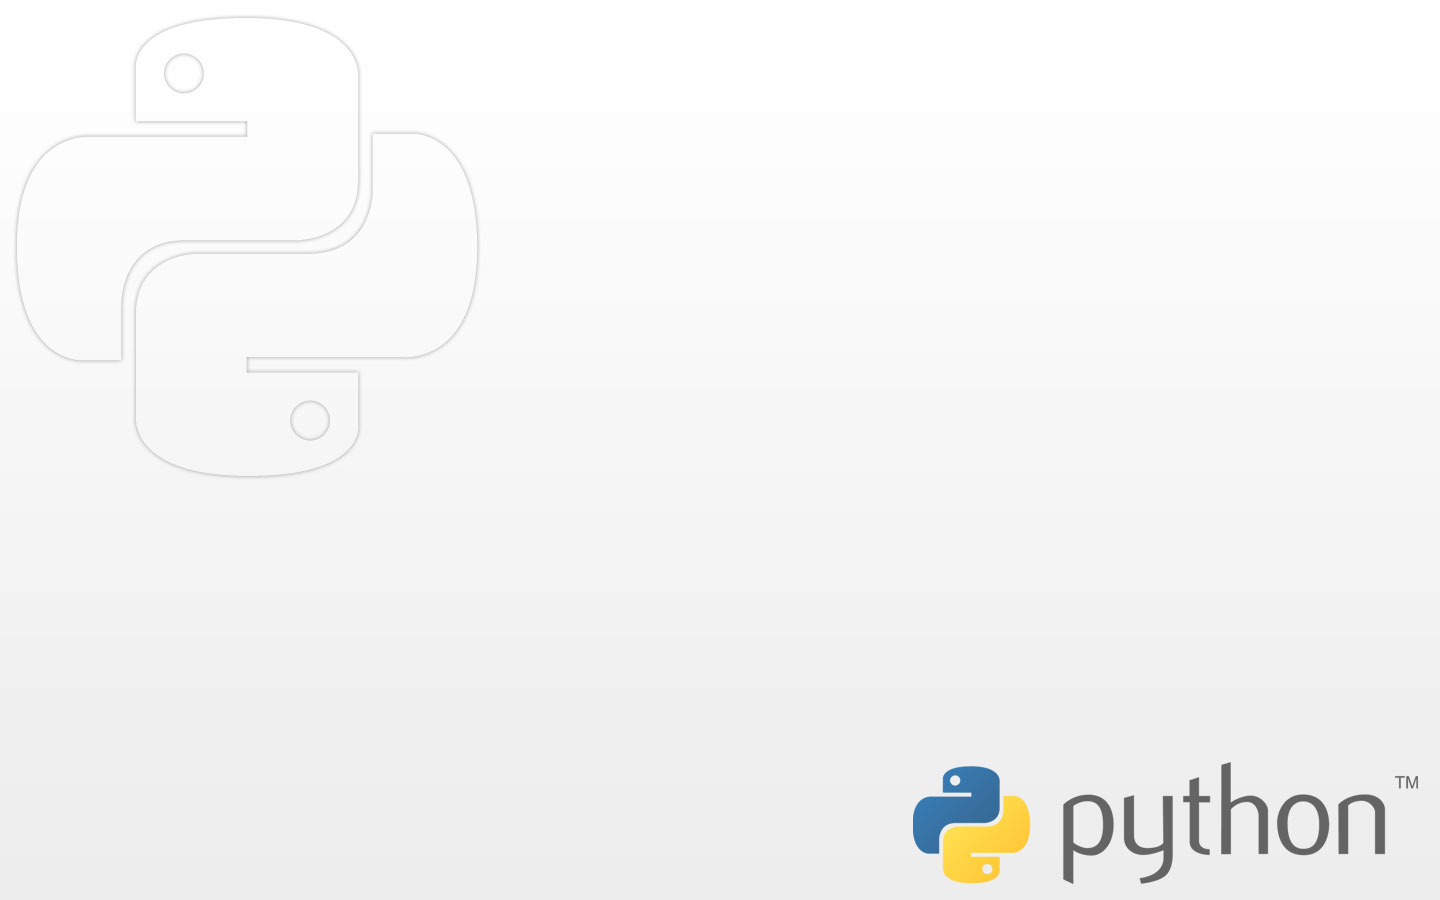
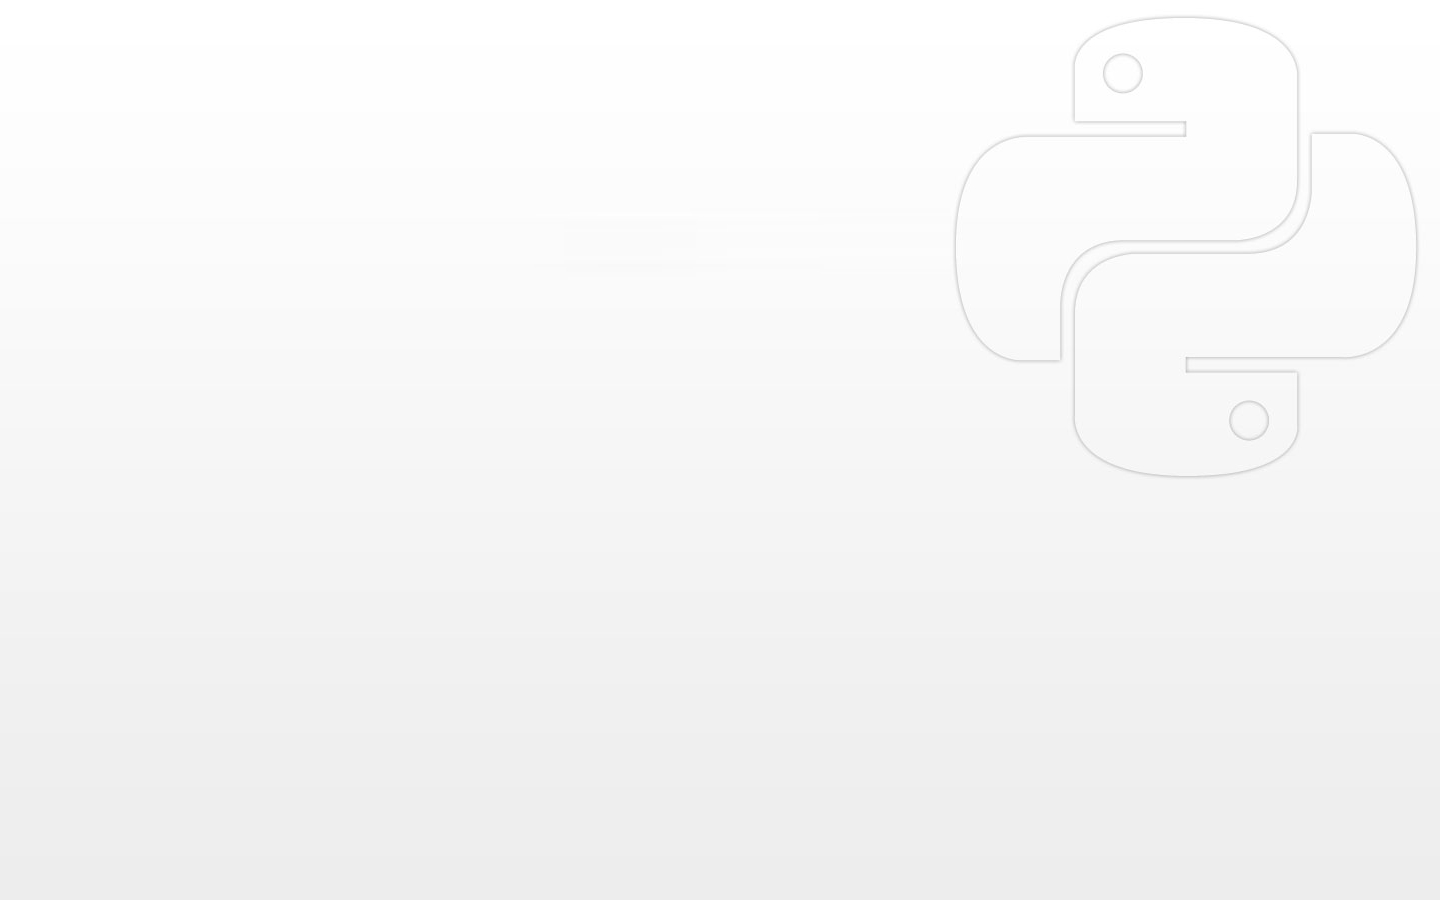
Add files via upload

Changed region(s): [[0.625, 0.84, 0.9688, 0.9956], [0.75, 0.1244, 0.8125, 0.1556], [0.0938, 0.1244, 0.1562, 0.1556]]

diff --git a/HomePage.html b/HomePage.html
@@ -1,0 +1,34 @@
+<!doctype html>
+<html lang="en">
+
+<head>
+<title>Home Page | Alabouh Websites</title>
+<link rel="icon" type="image/png" sizes="512x512" href="Assets/HomeFavicon.png">
+<link rel="stylesheet" href="homebackground.css">
+<style>h1{text-align: center; font-size: 20px;} h2{font-size: 16px;} h3{border-style: outset; width: 40%;} .box{width: 200px; height: 200px; background-color: #f2f2f2; border-radius: 20px; padding: 10px; margin-right: 10px; margin-left: 10px; margin: 5px;}</style>
+</head>
+
+<body>
+<font face="Verdana" size="2" color="#ffffff">
+<u><h1>Welcome to Alabouh's Website</h1></u><br>
+<br>
+<h2>Here, you can find information about me as well as website projects I make and decide to share.<br>
+You might also know my by my current username: Nova2089<br></h2>
+</font>
+<font face="Verdana" size="2">
+<div class="box">
+	<h1>Socials</h1><br>
+	<img src="Assets/ytimg.jpg" width="16" height="16"> <a href="https://www.youtube.com/channel/UCkz9Ob_VNReiMhgN4xvprKQ">Nova2089</a><br>
+	<img src="Assets/discordicon.png" width="16" height="16"> nova2089<br>
+	<img src="Assets/giticon.png" width="16" height="16"> <a href="https://github.com/Alabouh1">Alabouh1</a><br>
+	<img src="Assets/redditicon.png" width="16" height="16"> <a href="https://reddit.com/u/AlabouhGaming">AlabouhGaming</a><br>
+</div>
+<div class="box">
+	<h1>Projects</h1><br>
+	<a href="Basics1.html">Basics in Python Website</a>
+</div>
+</font>
+<font face="Verdana" size="2" color="#ffffff">
+</font>
+</body>
+</html>

diff --git a/Basics1.html b/Basics1.html
@@ -3,14 +3,15 @@
 
 <head>
 <title>Basics in Python</title>
-<link rel="icon" type="image/png" sizes="512x512" href="Assets/favicon.png">
-<link rel="stylesheet" href="background.css">
+<link rel="icon" type="image/png" sizes="512x512" href="Assets/PythonFavicon.png">
+<link rel="stylesheet" href="pythonbackground.css">
 <style>h1{text-align: center; font-size: 20px;} h2{font-size: 16px;} h3{border-style: outset; width: 40%;}</style>
 </head>
 
 <body>
 <font face="Verdana" size="2">
-<h1><img src="Assets/favicon.png" width="20" height="20"> Welcome to the Basics in Python <img src="Assets/favicon.png" width="20" height="20"></h1><br>
+<a href="HomePage.html" title="Back to Home Page">&larr; Home</a><br>
+<h1><img src="Assets/PythonFavicon.png" width="20" height="20"> Basics in Python <img src="Assets/PythonFavicon.png" width="20" height="20"></h1><br>
 <strong>Preface</strong><br>
 This guide will use Thonny as its IDE. If you don't already have a Python IDE, getting Thonny is greatly recommended. <a href="https://github.com/thonny/thonny" title="Thonny GitHub page">Visit here to download Thonny.</a><br>
 <br>

diff --git a/pythonbackground.css b/pythonbackground.css
@@ -1,0 +1,5 @@
+body{
+    background-image: url('Assets/python2.jpg');
+    background-size: cover;
+	background-attachment: fixed;
+}

diff --git a/homebackground.css b/homebackground.css
@@ -1,0 +1,5 @@
+body{
+	background-image: url('Assets/homebg.jpg');
+	background-size: cover;
+	background-attachment: fixed;
+}
